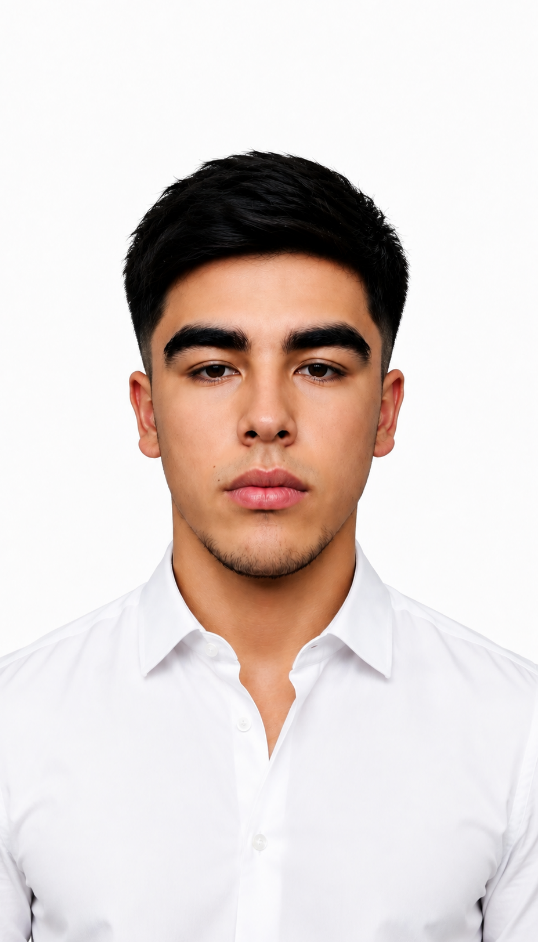
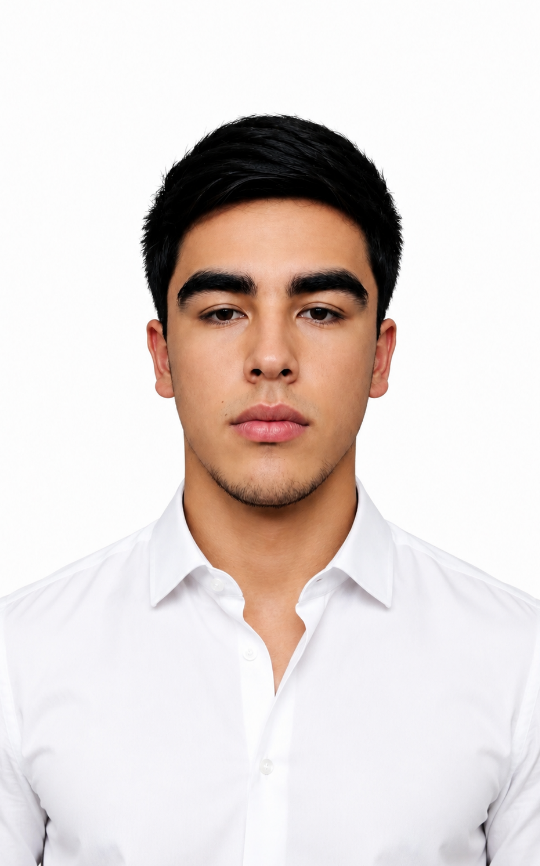
Connect dynamic platform settings to booking and payment commission calculations

diff --git a/services/payment-service/src/payment.service.ts b/services/payment-service/src/payment.service.ts
@@ -169,7 +169,12 @@ export class PaymentService {
       );
       const rank = rankRes.rows.length > 0 ? rankRes.rows[0].rank_grade : 'C';
       
-      const commissionRate = rank === 'S' ? 0.05 : rank === 'A' ? 0.07 : 0.10;
+      // Read dynamic platform settings from platform_settings table
+      const settingsRes = await client.query('SELECT base_commission_rate, s_rank_commission_rate FROM platform_settings LIMIT 1');
+      const baseCommission = settingsRes.rows.length > 0 ? parseFloat(settingsRes.rows[0].base_commission_rate) / 100 : 0.02;
+      const sRankCommission = settingsRes.rows.length > 0 ? parseFloat(settingsRes.rows[0].s_rank_commission_rate) / 100 : 0.01;
+
+      const commissionRate = rank === 'S' ? sRankCommission : baseCommission;
       const commissionAmount = amountPaid * commissionRate;
       const netBarberPayout = amountPaid - commissionAmount;
 
@@ -351,10 +356,19 @@ export class PaymentService {
         date: new Date(row.created_at).toLocaleString('uz-UZ', { day: '2-digit', month: '2-digit', year: 'numeric', hour: '2-digit', minute: '2-digit' })
       }));
 
+      // Read dynamic platform settings from platform_settings table
+      const settingsRes = await client.query('SELECT base_commission_rate, s_rank_commission_rate, lockout_threshold FROM platform_settings LIMIT 1');
+      const baseCommission = settingsRes.rows.length > 0 ? parseFloat(settingsRes.rows[0].base_commission_rate) : 2;
+      const sRankCommission = settingsRes.rows.length > 0 ? parseFloat(settingsRes.rows[0].s_rank_commission_rate) : 1;
+      const lockoutLimit = settingsRes.rows.length > 0 ? parseFloat(settingsRes.rows[0].lockout_threshold) : 500000;
+
       return {
         digitalWallet,
         cashWallet,
         commissionDebt,
+        lockoutLimit,
+        baseCommission,
+        sRankCommission,
         transactions
       };
     } finally {

diff --git a/services/frontend/src/app/(barber)/ledger/page.tsx b/services/frontend/src/app/(barber)/ledger/page.tsx
@@ -32,6 +32,7 @@ export default function BarberLedgerPage() {
   const [digitalWallet, setDigitalWallet] = useState(0); 
   const [cashWallet, setCashWallet] = useState(0);
   const [commissionDebt, setCommissionDebt] = useState(0); 
+  const [lockoutLimit, setLockoutLimit] = useState(500000);
 
   // Double-entry transaction ledger
   const [transactions, setTransactions] = useState<LedgerTransaction[]>([]);
@@ -43,6 +44,9 @@ export default function BarberLedgerPage() {
         setDigitalWallet(data.digitalWallet || 0);
         setCashWallet(data.cashWallet || 0);
         setCommissionDebt(data.commissionDebt || 0);
+        if (data.lockoutLimit) {
+          setLockoutLimit(data.lockoutLimit);
+        }
         setTransactions(data.transactions || []);
       } catch (err) {
         console.error('Failed to fetch ledger:', err);
@@ -51,9 +55,8 @@ export default function BarberLedgerPage() {
     fetchLedger();
   }, []);
 
-  // Lockout threshold parameters
-  const warningLimit = 300000;
-  const lockoutLimit = 450000;
+  // Dynamic Lockout threshold parameters
+  const warningLimit = lockoutLimit * 0.7;
   const isLocked = commissionDebt >= lockoutLimit;
   const isWarned = commissionDebt >= warningLimit && commissionDebt < lockoutLimit;
 

diff --git a/services/booking-service/src/booking.service.ts b/services/booking-service/src/booking.service.ts
@@ -200,7 +200,13 @@ export class BookingService {
       );
       
       const rank = rankingRes.rows.length > 0 ? rankingRes.rows[0].rank_grade : 'C';
-      const commissionRate = rank === 'S' ? 0.05 : rank === 'A' ? 0.07 : 0.10;
+
+      // Read dynamic rates from platform_settings table
+      const settingsRes = await client.query('SELECT base_commission_rate, s_rank_commission_rate FROM platform_settings LIMIT 1');
+      const baseCommission = settingsRes.rows.length > 0 ? parseFloat(settingsRes.rows[0].base_commission_rate) / 100 : 0.02;
+      const sRankCommission = settingsRes.rows.length > 0 ? parseFloat(settingsRes.rows[0].s_rank_commission_rate) / 100 : 0.01;
+
+      const commissionRate = rank === 'S' ? sRankCommission : baseCommission;
 
       const serviceAmount = booking.price ? parseFloat(booking.price) : 60000.00;
       const commissionDebt = serviceAmount * commissionRate;

diff --git a/services/frontend/src/app/(barber)/reputation/page.tsx b/services/frontend/src/app/(barber)/reputation/page.tsx
@@ -208,8 +208,8 @@ export default function BarberReputationPage() {
               <div className="space-y-1">
                 <h4 className="font-bold text-success">Komissiya imtiyozlari faol!</h4>
                 <p className="text-[10px] text-text-muted">
-                  Sizning S-Rank darajangiz uchun platforma komissiya stavkasi 10% dan 5% ga tushirilgan. 
-                  Bu sizga har bir uchrashuvdan qo'shimcha 5% sof foyda keltirmoqda.
+                  Sizning S-Rank darajangiz uchun platforma komissiya stavkasi minimal darajagacha imtiyozli pasaytirilgan. 
+                  Bu sizga har bir uchrashuvdan maximal sof foyda keltirmoqda.
                 </p>
               </div>
             </div>
